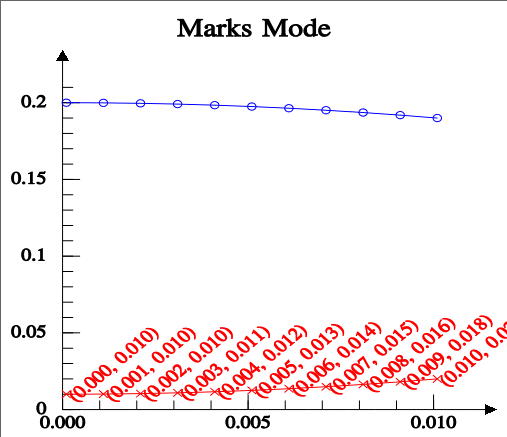
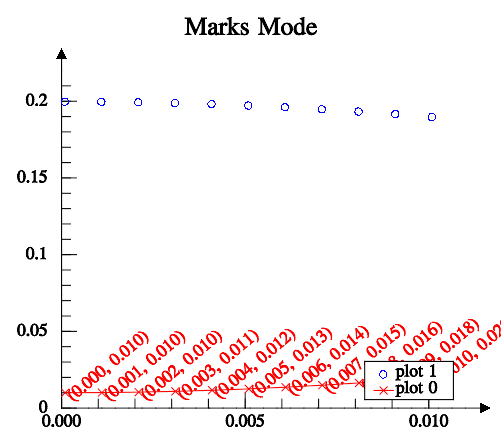
*** empty log message ***
git-svn-id: https://svn.code.sf.net/p/iup/iup/trunk@1246 2f08bc20-984a-4df8-b195-9b5d5d477537

diff --git a/iup/html/en/ctrl/iup_mglplot.html b/iup/html/en/ctrl/iup_mglplot.html
@@ -357,7 +357,8 @@ returns the last error message reported by MathGL.</p>
 <p><b><a href="../attrib/iup_fgcolor.html">FGCOLOR</a></b>:  the default color 
 used in all text elements of the plot: title, legend and labels. Default: &quot;0 0 0&quot;.</p>
 <p><strong>OPENGL</strong> (non inheritable): Enable or disable the rendering in 
-OpenGL. Default: Yes. When NO the rendering is slower and done in a RGB image.</p>
+OpenGL. Default: No. When NO the rendering is slower, but when Yes some features 
+does not behave as expected. See <a href="#KnownIssues">Known Issues</a>.</p>
 <p><b>REDRAW</b> (write-only)(non inheritable): redraw the plot and update the display. Value is 
 ignored. All other attributes will <span class="style1"><strong>NOT</strong></span> update the display, so you can set many 
 attributes without visual output. If the element is redraw by the system because 
@@ -755,23 +756,26 @@ IupPPlotTransform       -&gt; IupMglPlotTransform  (now includes z coordinate)
    (cdCanvasText)       -&gt; IupMglPlotDrawText
 IupPPlotPaintTo         -&gt; IupMglPlotPaintTo    (parameters are different)</pre>
 
-<h3>Known Issues</h3>
+<h3><a name="KnownIssues">Known Issues</a></h3>
 <ul>
 	<li>Selection and editing of a dataset using the DS_EDIT attribute are not 
 	implemented.</li>
 	<li>Automatic ticks computation needs to be improved.</li>
 	<li>There is still lots of MathGL features not available in IupMglPlot.</li>
-	<li><font SIZE="3">When OPENGL=Yes and ANTIALIAS=Yes 3D graphs will not 
-	process depth properly. (OpenGL configuration)</font></li>
-	<li>Graph is disappearing during zoom in, <font SIZE="3">when OPENGL=Yes</font>, 
-	after a zoom factor. Maybe a depth clipping.<font SIZE="3"> (OpenGL 
-	configuration)</font></li>
-	<li>The control of ticks being oriented inside or outside the graph is not 
-	working. (MathGL)</li>
-	<li>Bar graph is clipped at 0 and n-1. (MathGL)</li>
-	<li>When tick labels are specified all ticks are displayed. (MathGL)</li>
+	<li><font SIZE="3">When OPENGL=Yes and ANTIALIAS=Yes, 3D graphs will not 
+	process depth properly. (OpenGL configuration?)</font></li>
+	<li><font SIZE="3">When OPENGL=Yes</font>, Graph is disappearing during zoom in, after a zoom factor. Maybe a depth clipping 
+	problem.<font SIZE="3"> (OpenGL 
+	configuration?)</font></li>
+	<li><font SIZE="3">When OPENGL=Yes</font>, Legend box is not being 
+	displayed. (MathGL)</li>
 	<li><font SIZE="3">When OPENGL=Yes aspect ratio of text and marks are not 
 	respected.(MathGL)</font></li>
+	<li>The control of ticks being oriented inside or outside the graph is not 
+	working. (MathGL)</li>
+	<li>Bar graph is clipped at 0 and at n-1. (MathGL)</li>
+	<li>When tick labels are specified all ticks are displayed regardless of 
+	tick spacing configuration. (MathGL)</li>
 </ul>
 
 <h3><a name="SeeAlso">See Also</a></h3>

diff --git a/iup/srcmglplot/iup_mglplot.cpp b/iup/srcmglplot/iup_mglplot.cpp
@@ -468,6 +468,44 @@ static char* iMglPlotConfigPen(mglGraph *gr, char* pen, char line_style, float l
   return pen;
 }
 
+static char iMglPlotFindColor(const mglColor& c1)
+{
+  int i;
+  char id = 0;
+  mreal old_diff = -1, diff, rr, bb, gg;
+
+	for(i=0; mglColorIds[i].id; i++)
+  {
+    const mglColor& c2 = mglColorIds[i].col;
+    rr = c1.r-c2.r;
+    gg = c1.g-c2.g;
+    bb = c1.b-c2.b;
+    diff = rr*rr + gg*gg + bb*bb;
+    if (old_diff==-1 ||
+        diff < old_diff)
+    {
+      id = mglColorIds[i].id;
+      old_diff = diff;
+    }
+  }
+
+  //if (diff > XXX)
+  //  return 'k';
+  //else
+    return id;
+}
+
+static void iMglPlotConfigDataSetColor(IdataSet* ds, char* style)
+{
+  style += strlen(style); // Skip previous configuration
+
+  char id = iMglPlotFindColor(ds->dsColor);
+  if (id)
+    *style++ = id;
+
+  *style = 0;
+}
+
 static void iMglPlotConfigDataSetLineMark(IdataSet* ds, mglGraph *gr, char* style)
 {
   style += strlen(style); // Skip previous configuration
@@ -1579,8 +1617,9 @@ static void iMglPlotDrawLegend(Ihandle* ih, mglGraph *gr)
   {
     IdataSet* ds = &ih->data->dataSet[i];
 
-    //TODO
-    //iMglPlotConfigDataSetLineMark(ds, gr, style);
+    style[0] = 0;
+    iMglPlotConfigDataSetLineMark(ds, gr, style);
+    iMglPlotConfigDataSetColor(ds, style);
     gr->AddLegend(ds->dsLegend, style);
   }
 
@@ -1604,10 +1643,13 @@ static void iMglPlotDrawPlot(Ihandle* ih, mglGraph *gr)
   // Since this function will be used to draw on screen and
   // on metafile and bitmaps, all mglGraph control must be done here
   // and can NOT be done inside the attribute methods
-  gr->DefaultPlotParam();
 
   gr->Message = &(ih->data->ErrorMessage[0]);
   ih->data->ErrorMessage[0] = 0;
+
+  gr->DefaultPlotParam();
+
+  gr->Clf(ih->data->bgColor); /* Clear */
 
   iMglPlotConfigView(ih, gr);
 
@@ -1655,8 +1697,6 @@ static void iMglPlotRepaint(Ihandle* ih, int force, int flush)
 
   if (force || ih->data->redraw)
   {
-    ih->data->mgl->Clf(ih->data->bgColor); /* Clear */
-
     /* update render */
     iMglPlotDrawPlot(ih, ih->data->mgl);  /* Draw the graphics plot */
 
@@ -3634,7 +3674,11 @@ static int iMglPlotSetOpenGLAttrib(Ihandle* ih, const char* value)
       ih->data->mgl = new mglGraphGL();
     else
     {
-      iMglPlotInitOpenGL2D();
+      if (ih->handle)
+      {
+        IupGLMakeCurrent(ih);
+        iMglPlotInitOpenGL2D();
+      }
       ih->data->mgl = new mglGraphZB(ih->data->w, ih->data->h);
     }
   }
@@ -4789,10 +4833,9 @@ static int iMglPlotCreateMethod(Ihandle* ih, void **params)
   IupSetAttribute(ih, "BUFFER", "DOUBLE");
 
   ih->data->redraw = true;
-  ih->data->opengl = true;
   ih->data->w = 1;
   ih->data->h = 1;
-  ih->data->mgl = new mglGraphGL();
+  ih->data->mgl = new mglGraphZB(ih->data->w, ih->data->h);
 
   // Default values
   iMglPlotReset(ih);
@@ -4837,7 +4880,7 @@ static Iclass* iMglPlotNewClass(void)
   iupClassRegisterAttribute(ic, "REDRAW", NULL, iMglPlotSetRedrawAttrib, NULL, NULL, IUPAF_WRITEONLY|IUPAF_NO_INHERIT);
   iupClassRegisterAttribute(ic, "ALPHA", iMglPlotGetAlphaAttrib, iMglPlotSetAlphaAttrib, IUPAF_SAMEASSYSTEM, "0.5", IUPAF_NOT_MAPPED|IUPAF_NO_INHERIT);
   iupClassRegisterAttribute(ic, "TRANSPARENT", iMglPlotGetTransparentAttrib, iMglPlotSetTransparentAttrib, IUPAF_SAMEASSYSTEM, "No", IUPAF_NOT_MAPPED|IUPAF_NO_INHERIT);
-  iupClassRegisterAttribute(ic, "OPENGL", iMglPlotGetOpenGLAttrib, iMglPlotSetOpenGLAttrib, IUPAF_SAMEASSYSTEM, "Yes", IUPAF_NOT_MAPPED|IUPAF_NO_INHERIT);
+  iupClassRegisterAttribute(ic, "OPENGL", iMglPlotGetOpenGLAttrib, iMglPlotSetOpenGLAttrib, IUPAF_SAMEASSYSTEM, "No", IUPAF_NOT_MAPPED|IUPAF_NO_INHERIT);
   iupClassRegisterAttribute(ic, "ANTIALIAS", iMglPlotGetAntialiasAttrib, iMglPlotSetAntialiasAttrib, "Yes", NULL, IUPAF_NO_INHERIT);
   iupClassRegisterAttribute(ic, "MGLFONT", NULL, NULL, NULL, NULL, IUPAF_NOT_MAPPED|IUPAF_NO_INHERIT);
   iupClassRegisterAttribute(ic, "RESET", NULL, iMglPlotSetResetAttrib, NULL, NULL, IUPAF_WRITEONLY|IUPAF_NOT_MAPPED|IUPAF_NO_INHERIT);
@@ -5047,7 +5090,6 @@ void IupMglPlotOpen(void)
 
 To Release:
   LoadFont
-  Legend  
 
 Next Version:
   DS_EDIT+Selection+Callbacks
@@ -5064,8 +5106,10 @@ Maybe:
   Ternary
 
 MathGL:
-  ***improve autoticks computation
   evaluate interval, [-1,1] x [0,1] x [0,n-1]
+  ***improve autoticks computation
+  ***Legend does not work in OpenGL
+  ***Legend background is always white regardless of plot background
   ***gr->Box AND gr->ContFA have different results in OpenGL. 
      It seems to have an invalid depth. Without OpenGL works fine.
      SOLVED BY CALLING glEnable(GL_DEPTH_TEST), but this affected anti-aliasing.
@@ -5076,8 +5120,8 @@ MathGL:
      SetTickLen - documentation says negative len puts ticks outside the bounding box, but it is NOT working
      ***TicksVal should follow ticks spacing configuration 
   Fonts
-     ***font aspect ratio not being mantained
+     ***font aspect ratio not being mantained in OpenGL
      ***additional library to load TTF and OTF using FreeType
         vfm too slow to load font, need a binary format
-     ***option to draw an opaque background for text
+     option or function to draw an opaque background for text
 */

diff --git a/iup/test/mglplot.c b/iup/test/mglplot.c
@@ -12,8 +12,18 @@
 #include <string.h>
 #include <math.h>
 
+#define USE_IM 1
+#ifdef USE_IM
+#include "im.h"
+#include "im_image.h"
+#include "im_convert.h"
+#include "im_process.h"
+#endif
 
 #include "iup.h"
+#ifdef USE_IM
+#include "iupim.h"
+#endif
 #include "iupcontrols.h"
 #include "iup_mglplot.h"
 
@@ -556,19 +566,40 @@ static int dial2_btnup_cb(Ihandle *self, double angle)
   return IUP_DEFAULT;
 }
 
+#ifdef USE_IM
+static int bt1_cb(Ihandle* self)
+{
+  imImage* image;
+  int w, h;
+  void* gldata;
+  int ii = tabs_get_index();
+  IupGetIntInt(plot[ii], "DRAWSIZE", &w, &h);
+  gldata = malloc(w*h*3);
+  image = imImageCreate(w, h, IM_RGB, IM_BYTE);
+  IupMglPlotPaintTo(plot[ii], "RGB", w, h, 0, gldata);
+  imConvertPacking(gldata, image->data[0], w, h, 3, 3, IM_BYTE, 1);
+  imProcessFlip(image, image);
+  imFileImageSave("../mglplot.png", "PNG", image);
+  free(gldata);
+  imImageDestroy(image);
+  (void)self;
+  return IUP_DEFAULT;
+}
+#else
 static int bt1_cb(Ihandle *self)
 {
   int ii = tabs_get_index();
 //  IupSetAttribute(plot[ii], "CLEAR", "Yes");
 //  IupSetAttribute(plot[ii], "REMOVE", "0");
 //  IupSetAttribute(plot[ii], "ANTIALIAS", !IupGetInt(plot[ii], "ANTIALIAS")? "Yes": "No");
-//  IupSetAttribute(plot[ii], "OPENGL", !IupGetInt(plot[ii], "OPENGL")? "Yes": "No");
-//  IupSetAttribute(plot[ii], "REDRAW", NULL);
+  IupSetAttribute(plot[ii], "OPENGL", !IupGetInt(plot[ii], "OPENGL")? "Yes": "No");
+  IupSetAttribute(plot[ii], "REDRAW", NULL);
 
-  IupMglPlotPaintTo(plot[ii], "EPS", 0, 0, 0, "../mglplot.eps");
-  IupMglPlotPaintTo(plot[ii], "SVG", 0, 0, 0, "../mglplot.svg");
+//  IupMglPlotPaintTo(plot[ii], "EPS", 0, 0, 0, "../mglplot.eps");
+//  IupMglPlotPaintTo(plot[ii], "SVG", 0, 0, 0, "../mglplot.svg");
   return IUP_DEFAULT;
 }
+#endif
 
 void MglPlotTest(void)
 {

diff --git a/iup/srcmglplot/mgl/mgl_ab.cpp b/iup/srcmglplot/mgl/mgl_ab.cpp
@@ -516,20 +516,26 @@ void mglGraphAB::Legend(int n, wchar_t **text,char **style, mreal x, mreal y,
 	Push();	Identity(rel);	//	memcpy(B,B1,9*sizeof(mreal));
 	if(LegendBox)	// draw bounding box
 	{
+    mreal mw = w*0.1f;
+    mreal mh = h*0.1f;
 		pp[2] = pp[5] = pp[8] = pp[11] = pp[14] = s3-0.01;
-		pp[0] = pp[9] = pp[12] = x;		pp[3] = pp[6] = x+w;
-		pp[1] = pp[4] = pp[13] = y-0.*h;		pp[7] = pp[10] = y+h*n;
+		pp[0] = pp[9] = pp[12] = x-mw;		pp[3] = pp[6] = x+w+2*mw;
+		pp[1] = pp[4] = pp[13] = y-mh;		pp[7] = pp[10] = y+h*n+2*mh;
 //		for(i=0;i<5;i++)	ScalePoint(pp[3*i],pp[3*i+1],pp[3*i+2]);
 		SelectPen(TranspType!=2 ? "k-1":"w-1");
 		curv_plot(5,pp,0);	// bounding rectangle
 		pp[2] = pp[5] = pp[8] = pp[11] = s3-0.01;
-		pp[0] = pp[6] = x;			pp[3] = pp[9] = x+w;
-		pp[1] = pp[4] = y-0.*h;		pp[7] = pp[10] = y+h*n;
-		DefColor(mglColor(1,1,1),1);
+		pp[0] = pp[6] = x-mw;			pp[3] = pp[9] = x+w+2*mw;
+		pp[1] = pp[4] = y-mh;		pp[7] = pp[10] = y+h*n+2*mh;
+
+    
+		DefColor(mglColor(BDef[0]/255.0f,BDef[1]/255.0f,BDef[2]/255.0f),1);
+//		DefColor(mglColor(1,1,1),1);
 //		for(i=0;i<4;i++)	ScalePoint(pp[3*i],pp[3*i+1],pp[3*i+2]);
 		surf_plot(2,2,pp,0,0);		// white rectangle below it
 	}
 	ScalePuts = false;
+
 	for(i=0;i<n;i++)	// draw lines and legend
 	{
 		char m=SelectPen(style[i]);

diff --git a/iup/srcmglplot/mgl/mgl_axis.cpp b/iup/srcmglplot/mgl/mgl_axis.cpp
@@ -1005,6 +1005,9 @@ void mglGraph::Legend(int n, wchar_t **text,char **style, int where,
 		w = w>x ? w:x;
 	}
 	w = (w + 1.1f*llen*1.5);	// add space for lines
+  // Add margins
+  w += 2*w*0.1f;
+  h += 2*h*0.1f;
 
 	switch(where)
 	{
